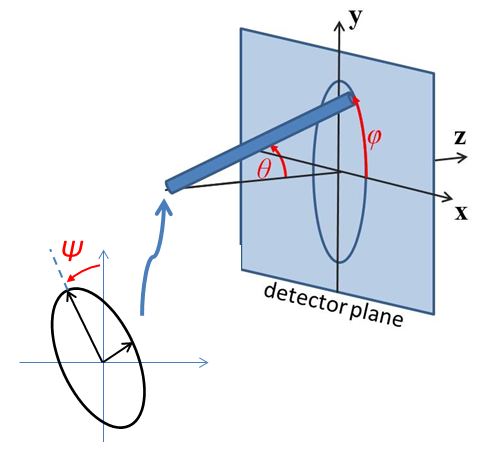
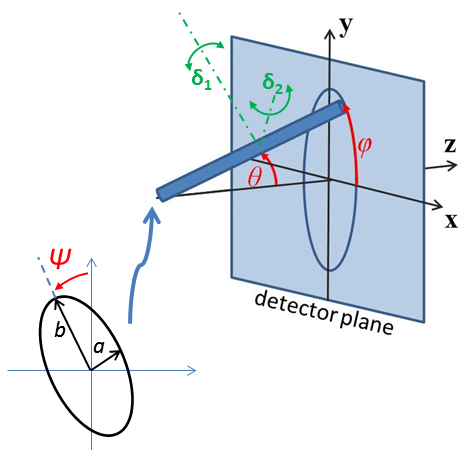
changes to docs, anticipating new orientation angle integrals

Changed region(s): [[0.0294, 0.0, 0.9706, 0.9912], [0.3824, 0.031, 0.4118, 0.0619]]

diff --git a/sasmodels/models/elliptical_cylinder.py b/sasmodels/models/elliptical_cylinder.py
@@ -56,22 +56,28 @@ by the particle volume
 To provide easy access to the orientation of the elliptical cylinder, we
 define the axis of the cylinder using two angles $\theta$, $\phi$ and $\Psi$
 (see :ref:`cylinder orientation <cylinder-angle-definition>`). The angle
-$\Psi$ is the rotational angle around its own long_c axis against the $q$ plane.
-For example, $\Psi = 0$ when the $r_\text{minor}$ axis is parallel to the
-$x$ axis of the detector.
+$\Psi$ is the rotational angle around its own long_c axis. 
 
 All angle parameters are valid and given only for 2D calculation; ie, an
 oriented system.
 
 .. figure:: img/elliptical_cylinder_angle_definition.png
 
-    Definition of angles for oriented elliptical cylinder, where axis_ratio >1,
-    and angle $\Psi$ is a rotation around the axis of the cylinder.
+    Definition of angles for oriented elliptical cylinder, where axis_ratio is drawn >1,
+    and angle $\Psi$ is now a rotation around the axis of the cylinder.
 
 .. figure:: img/elliptical_cylinder_angle_projection.png
 
     Examples of the angles for oriented elliptical cylinders against the
     detector plane, with $\Psi$ = 0.
+
+The $\theta$ and $\phi$ parameters to orient the cylinder only appear in the model when fitting 2d data. 
+On introducing "Orientational Distribution" in the angles, "distribution of theta" and "distribution of phi" parameters will
+appear. These are actually rotations about the axes $\delta_1$ and $\delta_2$ of the cylinder, the $b$ and $a$ axes of the 
+cylinder cross section. (When $\theta = \phi = 0$ these are parallel to the $Y$ and $X$ axes of the instrument.) 
+The third orientation distribution, in $\psi$, is about the $c$ axis of the particle. Some experimentation may be required to 
+understand the 2d patterns fully. (Earlier implementations had numerical integration issues in some circumstances when orientation 
+distributions passed through 90 degrees, such situations, with very broad distributions, should still be approached with care.) 
 
 NB: The 2nd virial coefficient of the cylinder is calculated based on the
 averaged radius $(=\sqrt{r_\text{minor}^2 * \text{axis ratio}})$ and length

diff --git a/sasmodels/models/cylinder.py b/sasmodels/models/cylinder.py
@@ -60,15 +60,23 @@ are defined in :numref:`cylinder-angle-definition` .
 
 .. _cylinder-angle-definition:
 
-.. figure:: img/cylinder_angle_definition.jpg
+.. figure:: img/cylinder_angle_definition.png
 
-    Definition of the angles for oriented cylinders.
+    Definition of the $\theta$ and $\phi$ orientation angles for a cylinder relative 
+    to the beam line coordinates, plus an indication of their orientation distributions 
+    which are described as rotations about each of the perpendicular axes $\delta_1$ and $\delta_2$ 
+    in the frame of the cylinder itself, which when $\theta = \phi = 0$ are parallel to the $Y$ and $X$ axes.
 
 .. figure:: img/cylinder_angle_projection.png
 
     Examples for oriented cylinders.
 
-The $\theta$ and $\phi$ parameters only appear in the model when fitting 2d data.
+The $\theta$ and $\phi$ parameters to orient the cylinder only appear in the model when fitting 2d data. 
+On introducing "Orientational Distribution" in the angles, "distribution of theta" and "distribution of phi" parameters will
+appear. These are actually rotations about the axes $\delta_1$ and $\delta_2$ of the cylinder, which when $\theta = \phi = 0$ are parallel 
+to the $Y$ and $X$ axes of the instrument respectively. Some experimentation may be required to understand the 2d patterns fully.
+(Earlier implementations had numerical integration issues in some circumstances when orientation distributions passed through 90 degrees, such 
+situations, with very broad distributions, should still be approached with care.) 
 
 Validation
 ----------

diff --git a/sasmodels/models/parallelepiped.py b/sasmodels/models/parallelepiped.py
@@ -111,6 +111,14 @@ $A$ along $z$ and $B$ along $x$.
     Examples of the angles for an oriented parallelepiped against the
     detector plane.
 
+On introducing "Orientational Distribution" in the angles, "distribution of theta" and "distribution of phi" parameters will
+appear. These are actually rotations about axes $\delta_1$ and $\delta_2$ of the parallelepiped, perpendicular to the $a$ x $c$ and $b$ x $c$ faces. 
+(When $\theta = \phi = 0$ these are parallel to the $Y$ and $X$ axes of the instrument.) The third orientation distribution, in $\psi$, is 
+about the $c$ axis of the particle, perpendicular to the $a$ x $b$ face. Some experimentation may be required to 
+understand the 2d patterns fully. (Earlier implementations had numerical integration issues in some circumstances when orientation 
+distributions passed through 90 degrees, such situations, with very broad distributions, should still be approached with care.) 
+
+    
 For a given orientation of the parallelepiped, the 2D form factor is
 calculated as
 

diff --git a/sasmodels/models/core_shell_bicelle.py b/sasmodels/models/core_shell_bicelle.py
@@ -62,11 +62,12 @@ the thickness of the rim and $J_1$ the usual first order bessel function.
 The output of the 1D scattering intensity function for randomly oriented
 cylinders is then given by integrating over all possible $\theta$ and $\phi$.
 
-The *theta* and *phi* parameters are not used for the 1D output.
+For oriented bicelles the *theta*, and *phi* orientation parameters will appear when fitting 2D data, 
+see the :ref:`cylinder` model for further information.
 Our implementation of the scattering kernel and the 1D scattering intensity
 use the c-library from NIST.
 
-.. figure:: img/cylinder_angle_definition.jpg
+.. figure:: img/cylinder_angle_definition.png
 
     Definition of the angles for the oriented core shell bicelle model,
     note that the cylinder axis of the bicelle starts along the beam direction

diff --git a/sasmodels/models/triaxial_ellipsoid.py b/sasmodels/models/triaxial_ellipsoid.py
@@ -75,9 +75,8 @@ and $\psi$. These angles are defined analogously to the elliptical_cylinder belo
     here are $a < b << c$ and angle $\Psi$ is a rotation around the axis
     of the particle.
 
-The angle $\psi$ is the rotational angle around its own $c$ axis
-against the $q$ plane. For example, $\psi = 0$ when the
-$a$ axis is parallel to the $x$ axis of the detector.
+For oriented ellipsoids the *theta*, *phi* and *psi* orientation parameters will appear when fitting 2D data, 
+see the :ref:`elliptical-cylinder` model for further information.
 
 .. _triaxial-ellipsoid-angles:
 

diff --git a/sasmodels/models/core_shell_bicelle_elliptical.py b/sasmodels/models/core_shell_bicelle_elliptical.py
@@ -75,7 +75,7 @@ setting radius to $R/Xcore$ and axial ratio to $1/Xcore$ gives an equivalent sol
 The output of the 1D scattering intensity function for randomly oriented
 bicelles is then given by integrating over all possible $\alpha$ and $\psi$.
 
-For oriented bicellles the *theta*, *phi* and *psi* orientation parameters only appear when fitting 2D data, 
+For oriented bicelles the *theta*, *phi* and *psi* orientation parameters will appear when fitting 2D data, 
 see the :ref:`elliptical-cylinder` model for further information.
 
 

diff --git a/sasmodels/models/stacked_disks.py b/sasmodels/models/stacked_disks.py
@@ -76,7 +76,7 @@ term in the equation above is effectively a Debye-Waller factor term.
 To provide easy access to the orientation of the stacked disks, we define
 the axis of the cylinder using two angles $\theta$ and $\varphi$.
 
-.. figure:: img/cylinder_angle_definition.jpg
+.. figure:: img/cylinder_angle_definition.png
 
     Examples of the angles against the detector plane.
 

diff --git a/sasmodels/models/core_shell_ellipsoid.py b/sasmodels/models/core_shell_ellipsoid.py
@@ -76,6 +76,8 @@ For randomly oriented particles:
 
    F^2(q)=\int_{0}^{\pi/2}{F^2(q,\alpha)\sin(\alpha)d\alpha}
 
+For oriented ellipsoids the *theta*, *phi* and *psi* orientation parameters will appear when fitting 2D data, 
+see the :ref:`elliptical-cylinder` model for further information.
 
 References
 ----------

diff --git a/sasmodels/models/capped_cylinder.py b/sasmodels/models/capped_cylinder.py
@@ -70,7 +70,7 @@ and its radius of gyration is
 
 The 2D scattering intensity is calculated similar to the 2D cylinder model.
 
-.. figure:: img/cylinder_angle_definition.jpg
+.. figure:: img/cylinder_angle_definition.png
 
     Definition of the angles for oriented 2D cylinders.
 

diff --git a/sasmodels/models/barbell.py b/sasmodels/models/barbell.py
@@ -67,7 +67,7 @@ and its radius of gyration is
 
 The 2D scattering intensity is calculated similar to the 2D cylinder model.
 
-.. figure:: img/cylinder_angle_definition.jpg
+.. figure:: img/cylinder_angle_definition.png
 
     Definition of the angles for oriented 2D barbells.
 
